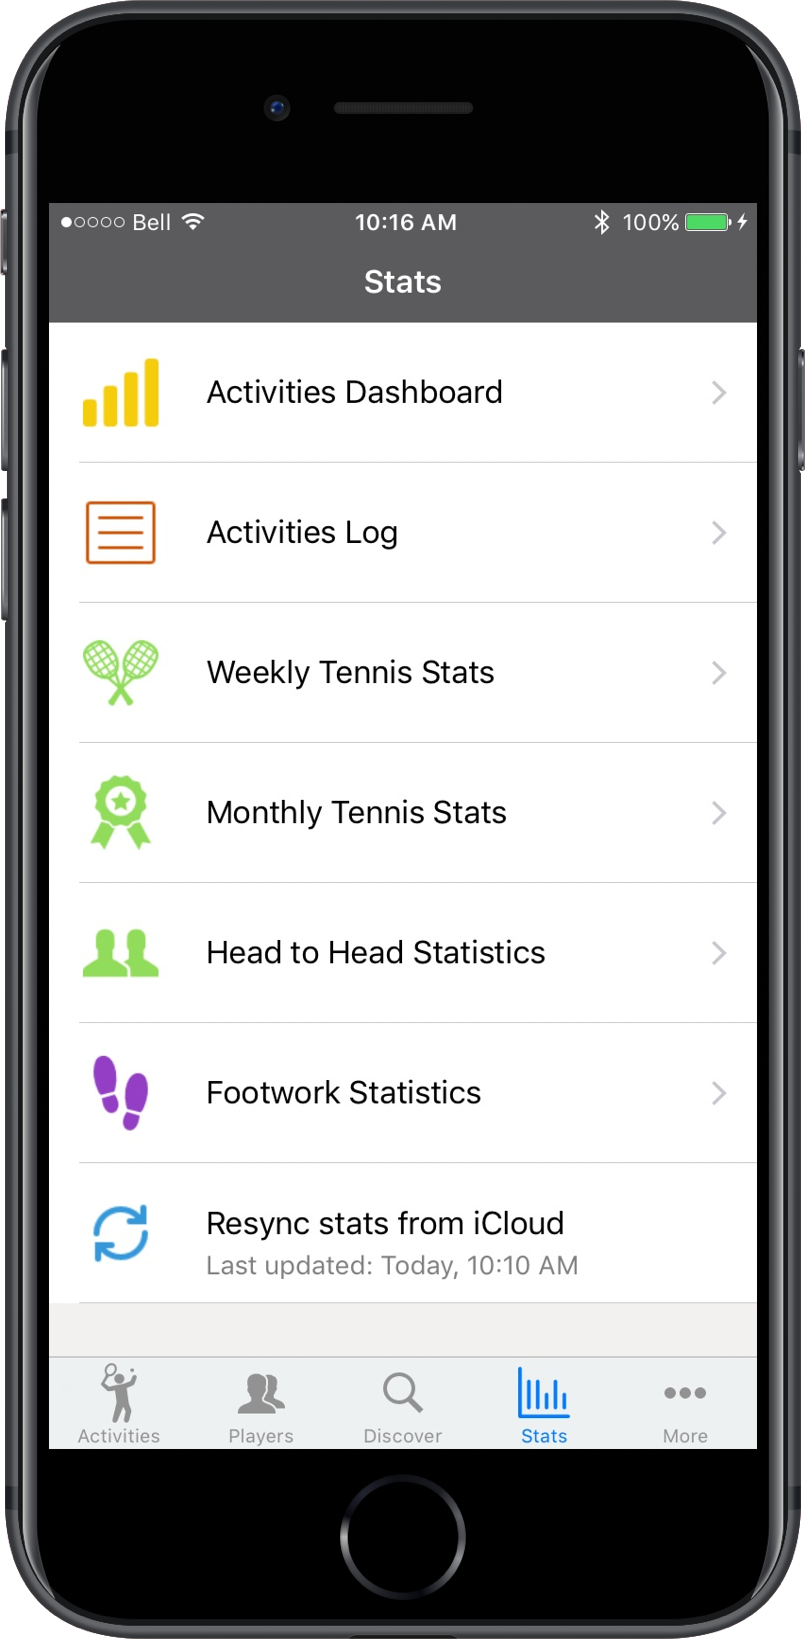
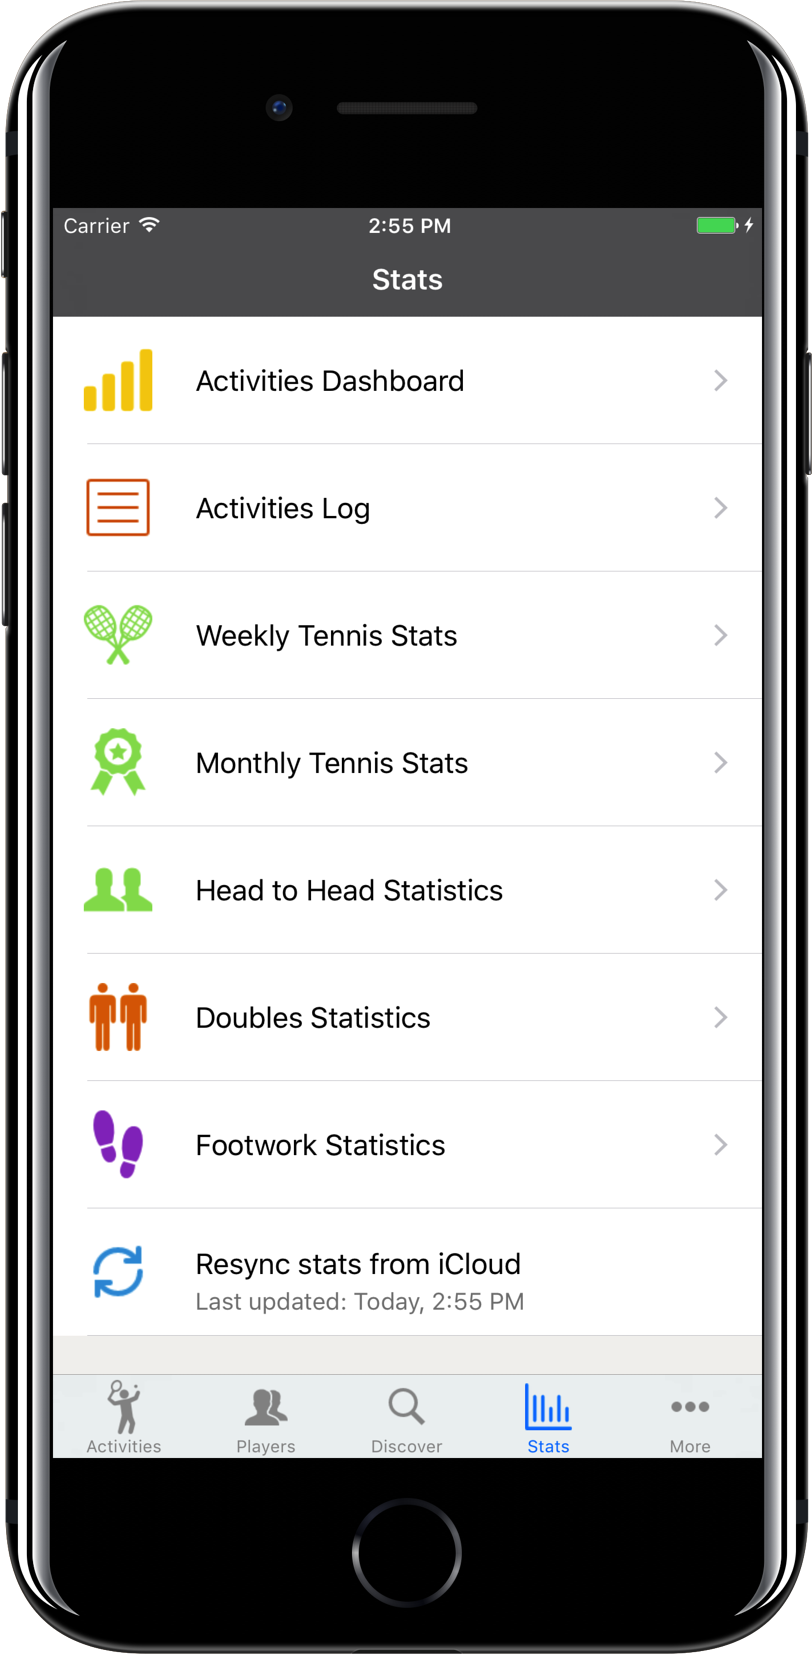
stats

diff --git a/support/stats.html b/support/stats.html
@@ -106,6 +106,7 @@
             <li>Win, lost match stats by week, month or year (Pro Edition).
             <li>Win, loss match stats grouped by games, sets, matches for any week, month or year (Pro Edition).
             <li>Lifetime singles and doubles Head to Head match statistics against any opponents (Pro Edition).
+            <li>Win, loss match stats with all your Doubles partners (Pro Edition).
             <li>Footwork stats (e.g. Steps count, distance covered) for every match for a selected week (Pro Edition).
             </ol>  
             </p>
